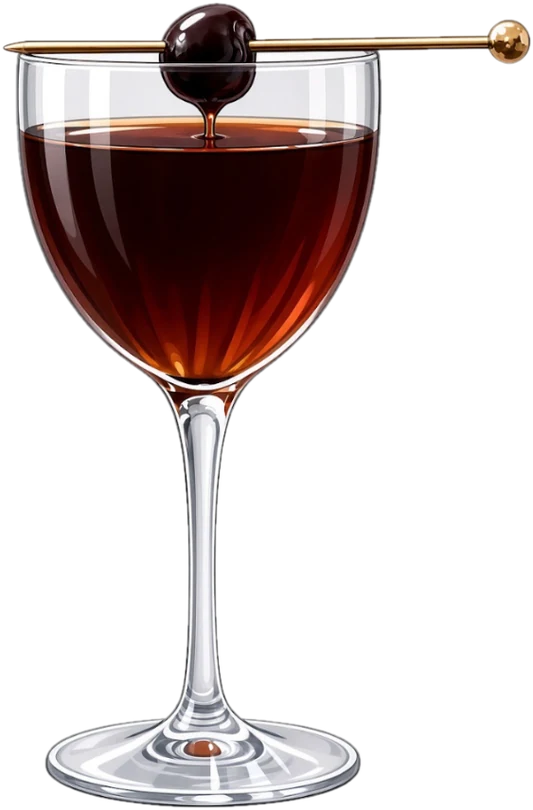
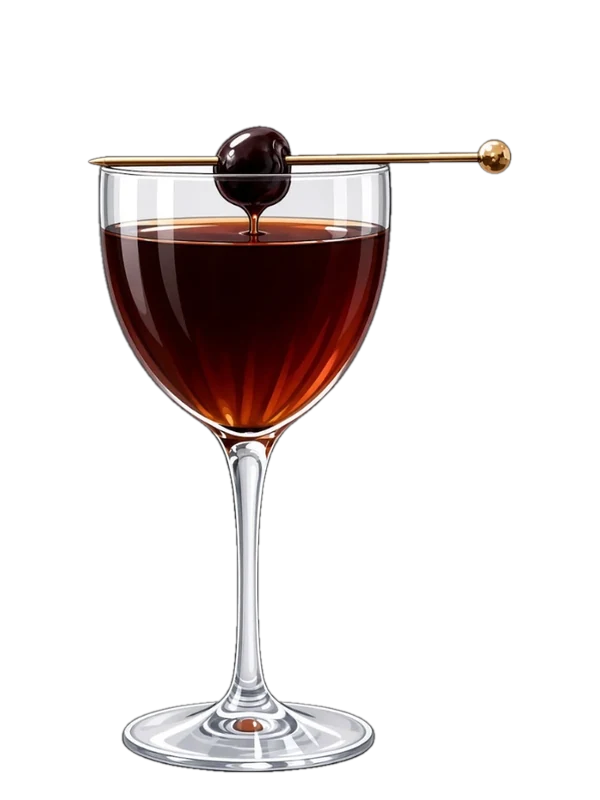
progressmenu : toutes les illustrations de boissons à la même hauteur (cadre 600x800)
Claude-Session: https://claude.ai/code/session_01E6eaQpRZAzokd3JTkiiFPT

Changed region(s): [[0.0, 0.0, 1.0, 1.0]]

diff --git a/clients/progressmenu/tools/normalize-drink.py b/clients/progressmenu/tools/normalize-drink.py
@@ -1,0 +1,20 @@
+#!/usr/bin/env python3
+"""Met toutes les images de boissons détourées (WebP/PNG transparent) sur le même cadre 600x800,
+à HAUTEUR égale (tous les verres ont la même hauteur), sauf les plus larges qui sont limités en largeur. Base alignée en bas, centrée. Usage : python3 tools/normalize-drink.py img1.webp img2.webp ...
+(les fichiers sont réécrits en place ; garder les originaux ailleurs)."""
+import sys, math
+from PIL import Image
+CW, CH = 600, 800
+HEIGHT = 650           # hauteur cible de la boisson dans le cadre
+MARGIN_B, MARGIN_X, MARGIN_T = 26, 24, 14
+for path in sys.argv[1:]:
+    im = Image.open(path).convert('RGBA')
+    im = im.crop(im.getchannel('A').point(lambda v: 255 if v > 8 else 0).getbbox())
+    w, h = im.size
+    s = min(HEIGHT / h, (CW - 2 * MARGIN_X) / w, 1.6)
+    nw, nh = max(1, round(w * s)), max(1, round(h * s))
+    im = im.resize((nw, nh), Image.LANCZOS)
+    canvas = Image.new('RGBA', (CW, CH), (0, 0, 0, 0))
+    canvas.paste(im, ((CW - nw) // 2, CH - MARGIN_B - nh), im)
+    canvas.save(path, 'WEBP', quality=88, method=6)
+    print(path.split('/')[-1], (w, h), '->', (nw, nh), 'x%.2f' % s)

diff --git a/clients/progressmenu/README.md b/clients/progressmenu/README.md
@@ -16,3 +16,7 @@ Déposer des PNG ou WebP **à fond transparent** dans `assets/img/drinks/` : `<s
 
 ## Ne rien inventer
 Prix, noms et descriptions viennent uniquement de la carte imprimée. Note : la phrase du café maison indique 7 280 Ft en hongrois mais 8 010 Ft en anglais/français dans la source (`menu.json`) — à confirmer avec la cliente.
+
+## Taille uniforme des illustrations
+
+Toutes les images de `assets/img/drinks/` sont sur le même cadre 600×800 (fond transparent), boisson posée en bas, à **hauteur égale** (les plus larges, mugs et tumblers, sont limités en largeur). Pour ajouter une image : la détourer, puis lancer `python3 clients/progressmenu/tools/normalize-drink.py assets/img/drinks/<slug>.webp` (réécrit le fichier en place, garder l'original ailleurs).
